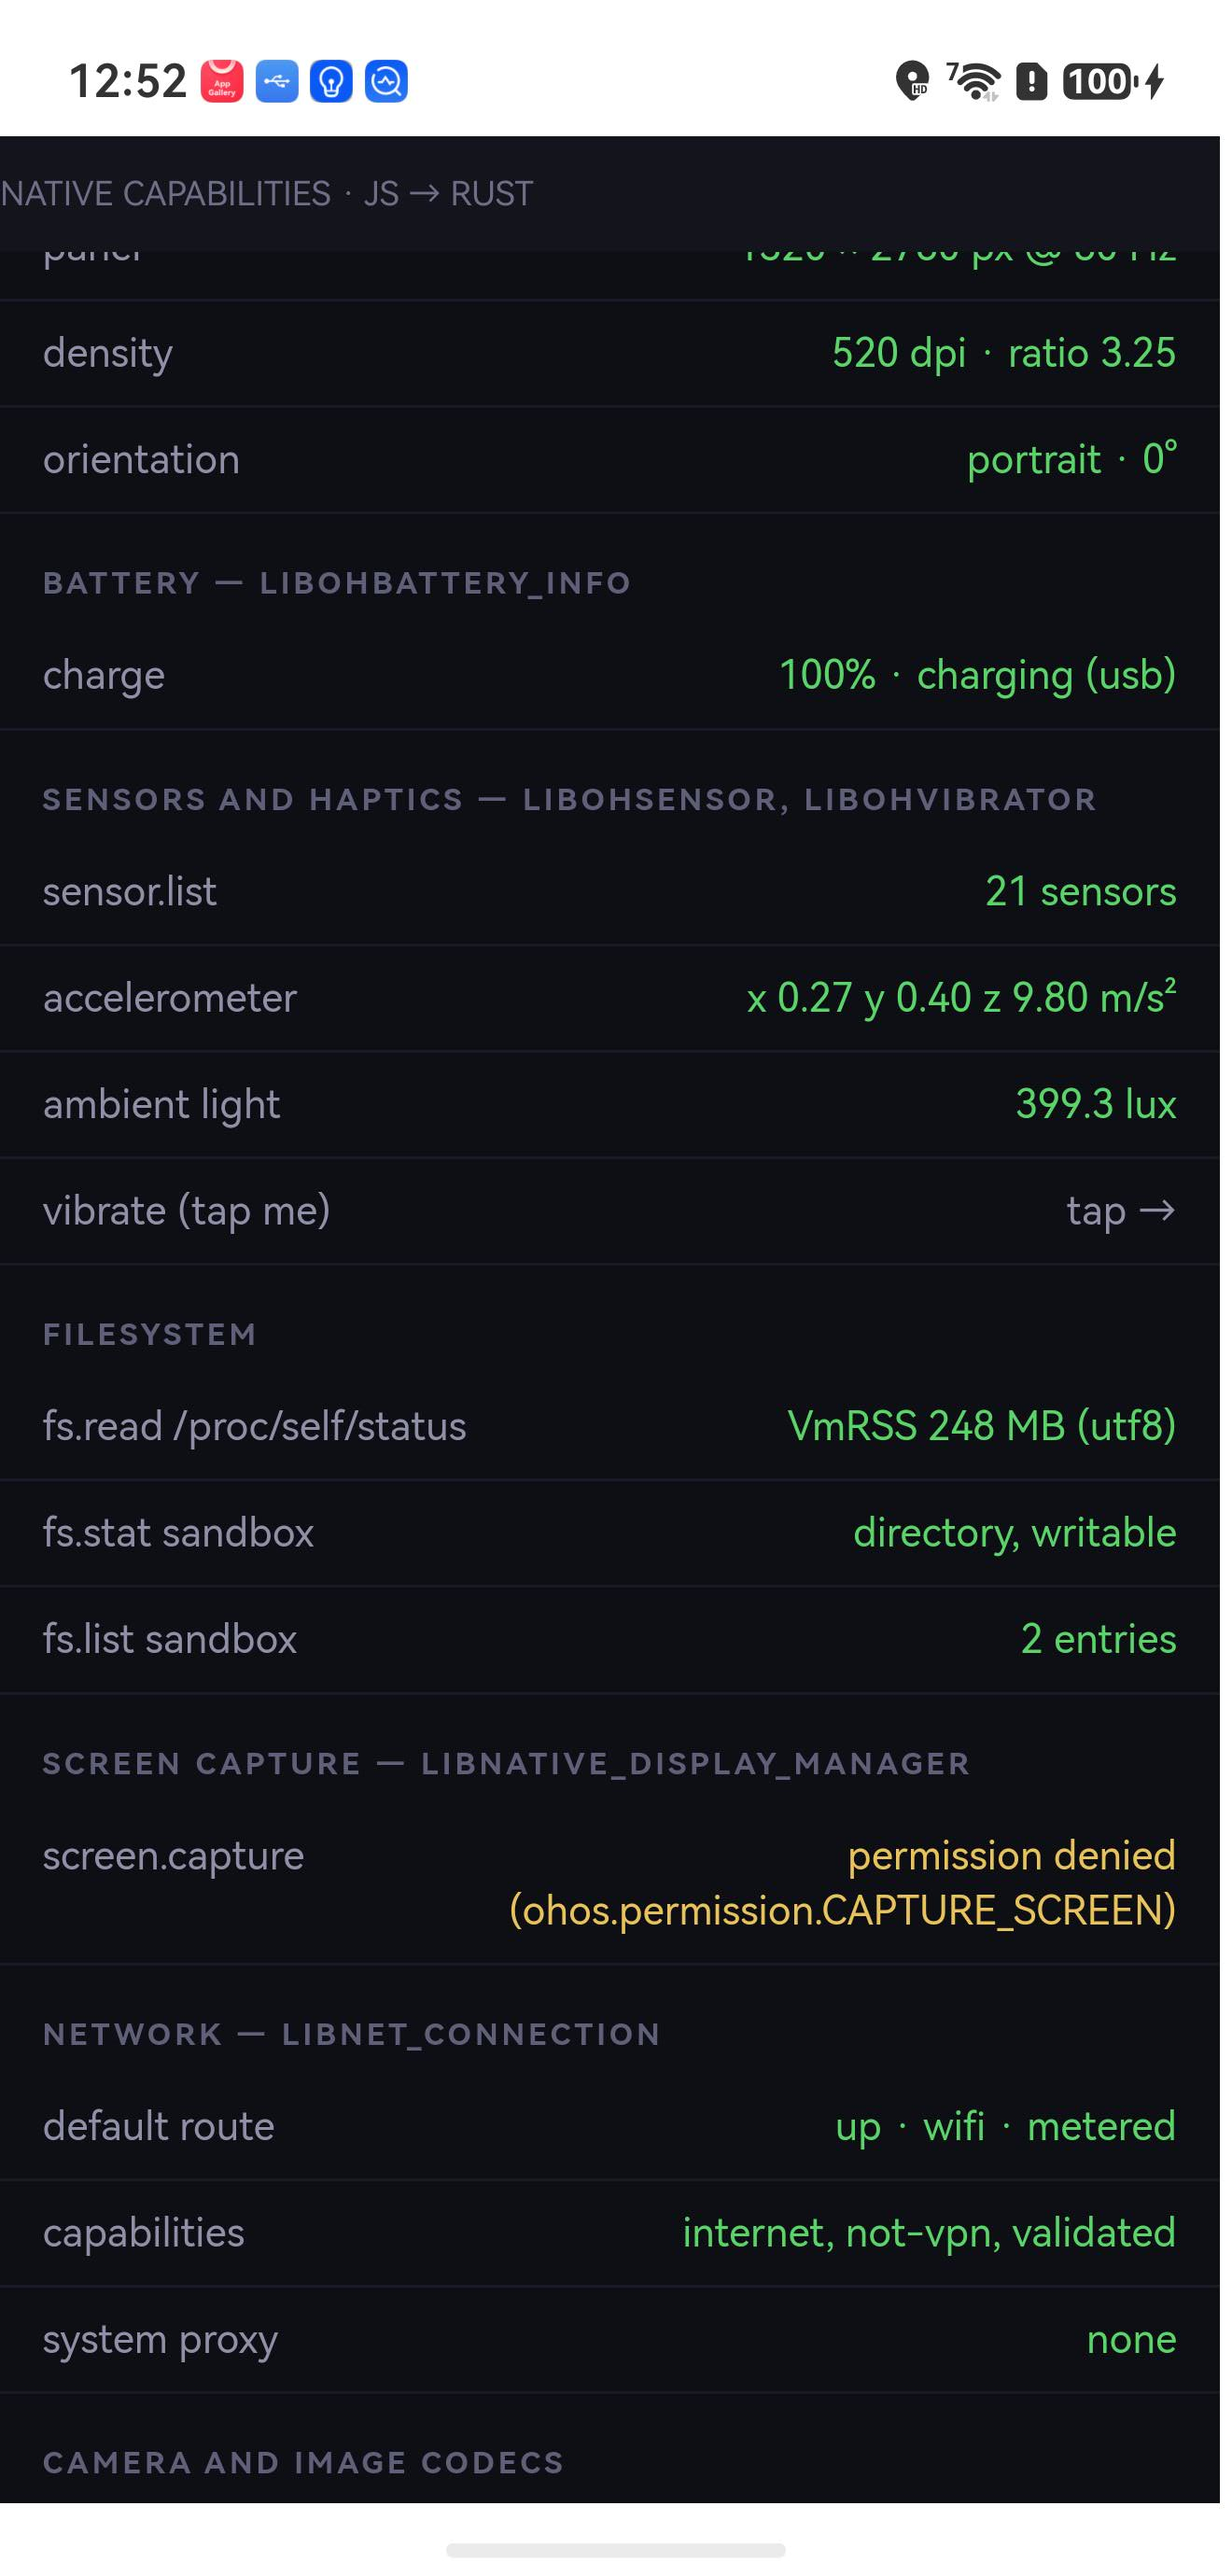
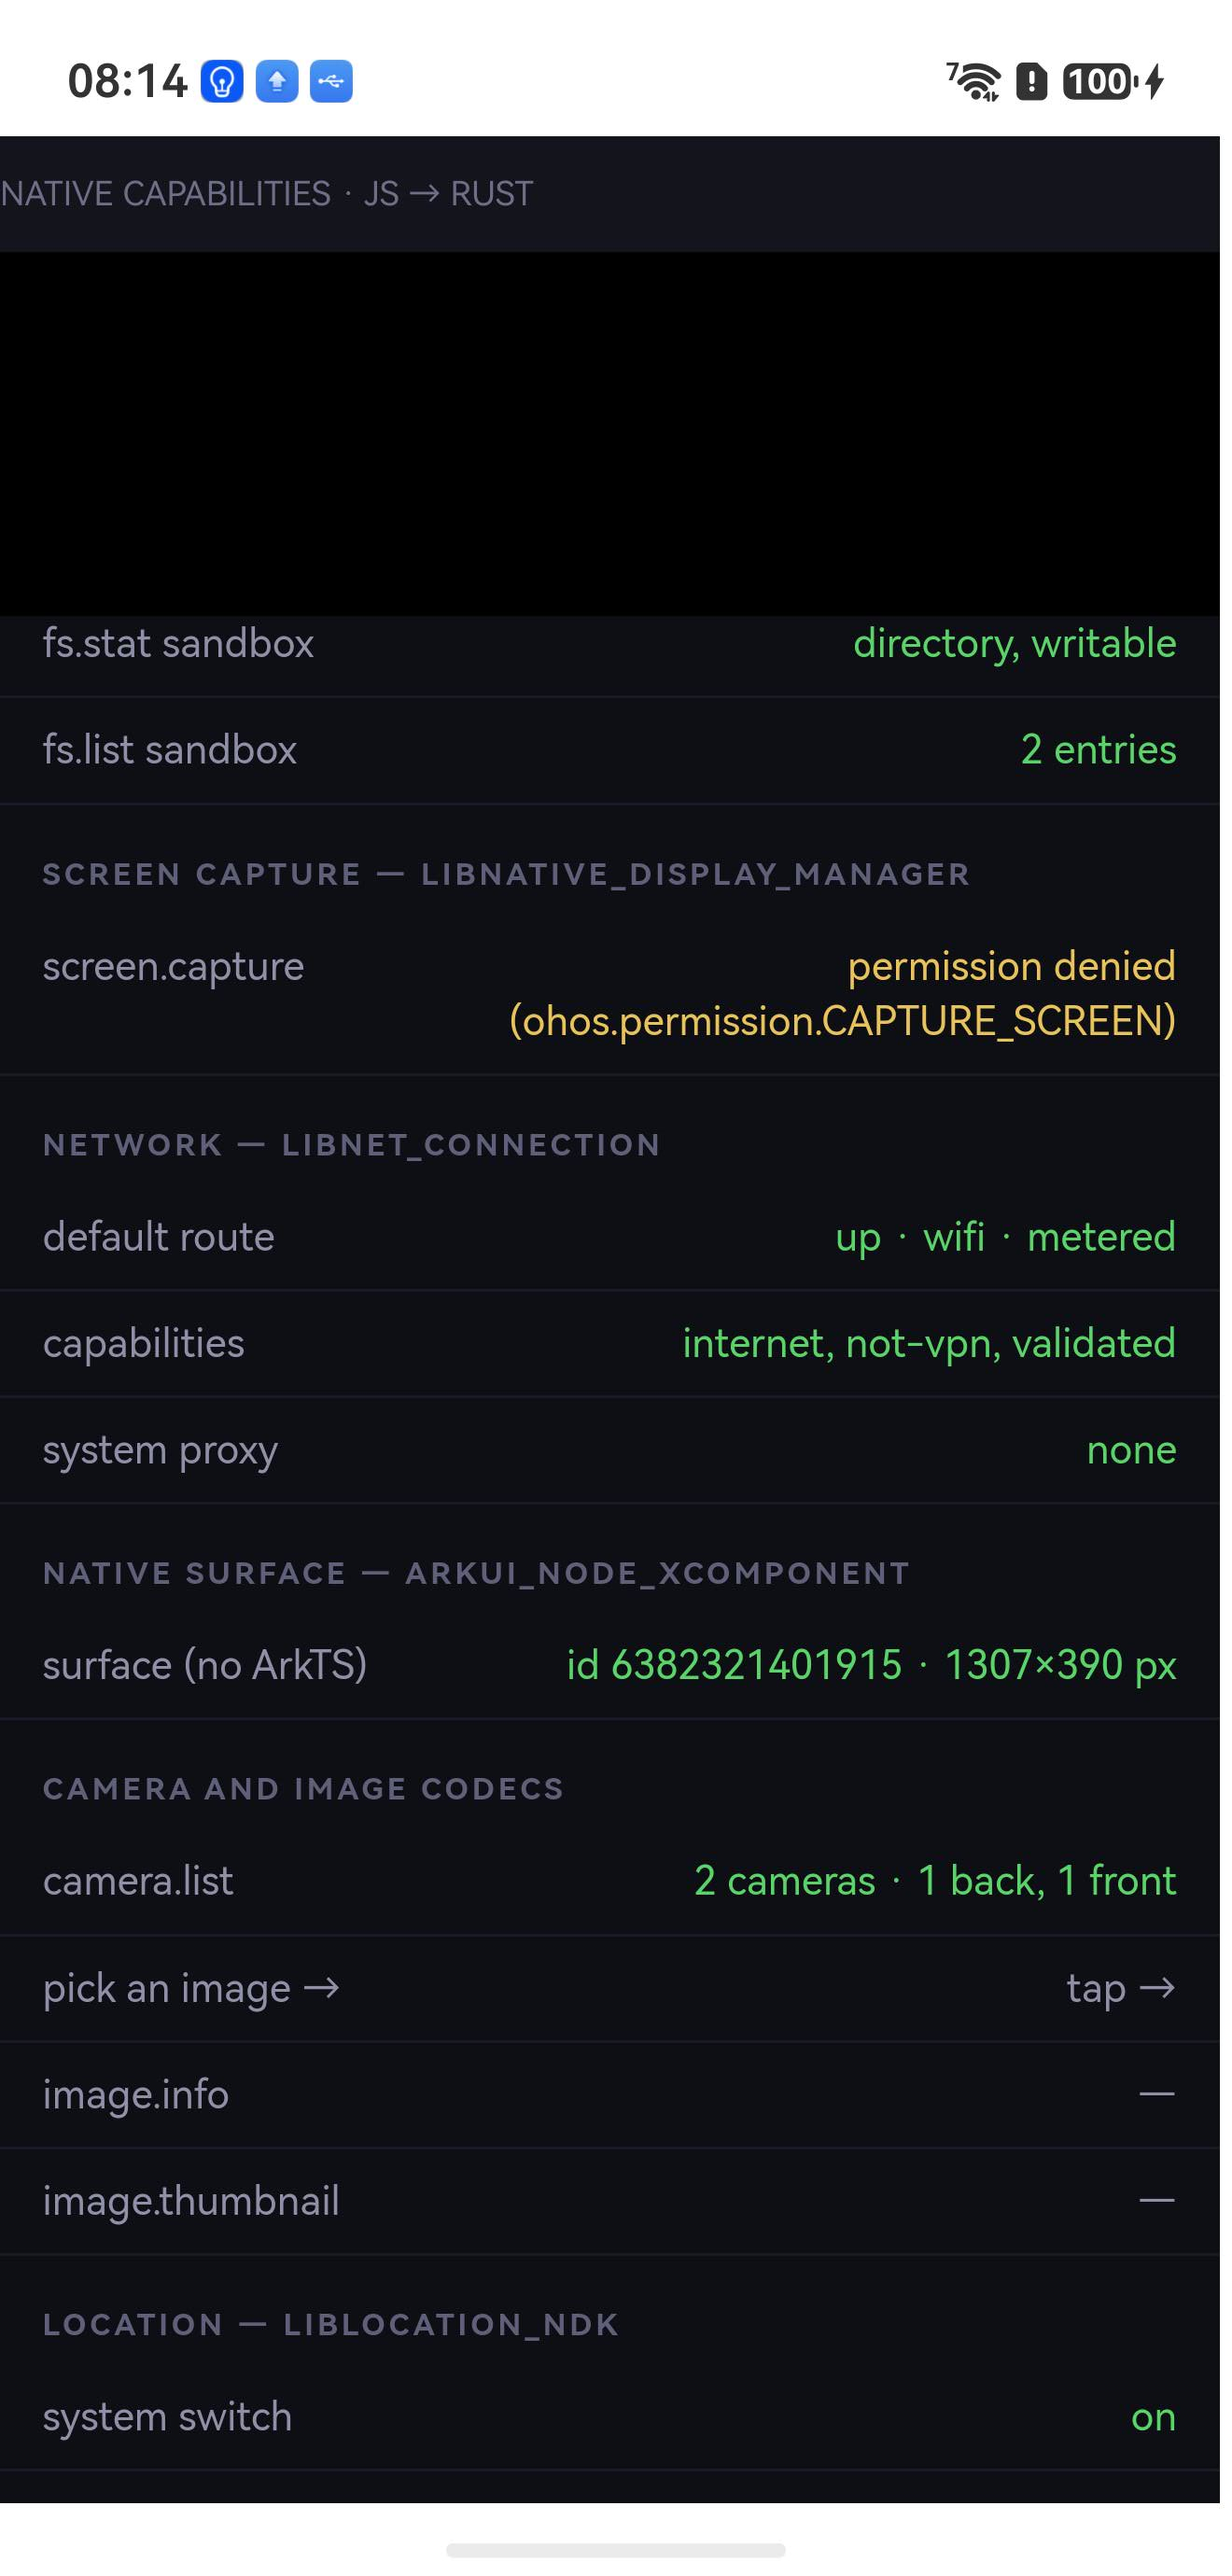
A render surface with no ArkTS on the path at all (#27)
I had suggested an ArkTS XComponent for camera preview. That was the wrong
advice and this is the correction.

  surface (no ArkTS)   id 6382321401915 · 1307×390 px

Created by Rust, from Rust, with ArkTS nowhere in it. 1307×390 px is exactly
402×120 vp at the 3.25 pixel ratio the display row reports, so it is laid out
correctly as well as merely existing.

# Why the web slots need ArkTS and this does not

They are not the same situation, and the difference is one line in the NDK.

There is no ARKUI_NODE_WEB. All 48 node types were checked; the NDK exposes no
web component, so Rust cannot build one and a real Web has to be positioned over
the native tree by ArkTS -- which is why every rebuild crosses back into ArkTS
to re-sync slot geometry.

ARKUI_NODE_XCOMPONENT is a first-class node type. So the whole chain is native:

  Node::new(ARKUI_NODE_XCOMPONENT)
  OH_NativeXComponent_GetNativeXComponent(node)
  OH_NativeXComponent_RegisterCallback(...)  -> OnSurfaceCreated(window)
  OH_NativeWindow_GetSurfaceId(window, &id)

and a producer writes frames into that surface directly. ArkTS is not on the
frame path, and here it is not on the setup path either. That surfaceId is
precisely what OH_CameraManager_CreatePreviewOutput asks for, so camera preview
needs no ArkTS -- which is the whole question that prompted this.

Worth being clear that the ArkTS cost is real where it applies: measured
earlier in this repo, ArkTS→typeNode construction runs 2.3–3.1× slower than
[…]

diff --git a/crates/splash-oh/src/xcomp.rs b/crates/splash-oh/src/xcomp.rs
@@ -1,0 +1,181 @@
+//! A native render surface, created by Rust with no ArkTS anywhere.
+//!
+//! This is the answer to "wouldn't ArkTS add overhead" for anything that needs
+//! a surface — a camera preview, a video frame, a GL scene.
+//!
+//! The web slots are stuck with an ArkTS overlay because **there is no
+//! `ARKUI_NODE_WEB`**: the NDK exposes no web component at all, so Rust cannot
+//! create one and a real `Web` has to be positioned on top of the native tree
+//! by ArkTS. Every rebuild therefore crosses into ArkTS to re-sync geometry.
+//!
+//! `XComponent` is not like that. `ARKUI_NODE_XCOMPONENT` is a first-class node
+//! type, so the whole chain stays native:
+//!
+//! ```text
+//! Node::new(ARKUI_NODE_XCOMPONENT)            this file
+//! OH_NativeXComponent_GetNativeXComponent()   node handle -> component
+//! OH_NativeXComponent_RegisterCallback()      -> OnSurfaceCreated(window)
+//! OH_NativeWindow_GetSurfaceId(window, &id)   the id a producer wants
+//! ```
+//!
+//! and a frame producer writes into that surface directly. ArkTS is not on the
+//! frame path, and here it is not on the setup path either.
+
+use crate::arkui::Node;
+use std::ffi::c_void;
+use std::os::raw::c_char;
+use std::sync::Mutex;
+
+pub const ARKUI_NODE_XCOMPONENT: i32 = 12;
+/// `NODE_XCOMPONENT_TYPE`, from `MAX_NODE_SCOPE_NUM * ARKUI_NODE_XCOMPONENT + 1`.
+const NODE_XCOMPONENT_ID: i32 = 1000 * ARKUI_NODE_XCOMPONENT;
+const NODE_XCOMPONENT_TYPE: i32 = NODE_XCOMPONENT_ID + 1;
+/// `ARKUI_XCOMPONENT_TYPE_SURFACE` — a real producer surface rather than a
+/// texture, which is what a camera or codec wants to write into.
+const XCOMPONENT_TYPE_SURFACE: i32 = 0;
+
+#[repr(C)]
+struct XComponentCallback {
+    on_surface_created: extern "C" fn(*mut c_void, *mut c_void),
+    on_surface_changed: extern "C" fn(*mut c_void, *mut c_void),
+    on_surface_destroyed: extern "C" fn(*mut c_void, *mut c_void),
+    dispatch_touch_event: extern "C" fn(*mut c_void, *mut c_void),
+}
+
+extern "C" {
+    /// In libace_ndk.z, already a hard dependency — the ArkUI tree itself needs
+    /// it, so unlike the image kits there is nothing optional about this one.
+    fn OH_NativeXComponent_GetNativeXComponent(node: *mut c_void) -> *mut c_void;
+    fn OH_NativeXComponent_RegisterCallback(
+        component: *mut c_void,
+        callback: *mut XComponentCallback,
+    ) -> i32;
+    fn OH_NativeXComponent_GetXComponentSize(
+        component: *mut c_void,
+        window: *const c_void,
+        w: *mut u64,
+        h: *mut u64,
+    ) -> i32;
+}
+
+/// `OH_NativeWindow_GetSurfaceId` lives in libnative_window, which is resolved
+/// at runtime for the reason the image kits are: a `DT_NEEDED` the loader
+/// cannot satisfy kills the whole library, and one optional capability has no
+/// business being able to do that.
+type GetSurfaceId = unsafe extern "C" fn(*mut c_void, *mut u64) -> i32;
+static SURFACE_ID_FN: std::sync::OnceLock<Option<GetSurfaceId>> = std::sync::OnceLock::new();
+
+extern "C" {
+    fn dlopen(file: *const c_char, mode: i32) -> *mut c_void;
+    fn dlsym(handle: *mut c_void, name: *const c_char) -> *mut c_void;
+}
+
+fn get_surface_id_fn() -> Option<GetSurfaceId> {
+    *SURFACE_ID_FN.get_or_init(|| {
+        let lib = std::ffi::CString::new("libnative_window.so").ok()?;
+        let h = unsafe { dlopen(lib.as_ptr(), 2) };
+        if h.is_null() {
+            crate::log("xcomp: libnative_window.so did not load");
+            return None;
+        }
+        let name = std::ffi::CString::new("OH_NativeWindow_GetSurfaceId").ok()?;
+        let p = unsafe { dlsym(h, name.as_ptr()) };
+        if p.is_null() {
+            crate::log("xcomp: OH_NativeWindow_GetSurfaceId not exported");
+            return None;
+        }
+        Some(unsafe { std::mem::transmute::<*mut c_void, GetSurfaceId>(p) })
+    })
+}
+
+/// What the surface callbacks have reported. A page reads this to find out
+/// whether a native surface actually materialised, and what its id is.
+#[derive(Default, Clone)]
+pub struct SurfaceState {
+    pub created: bool,
+    pub destroyed: bool,
+    pub surface_id: u64,
+    pub width: u64,
+    pub height: u64,
+}
+
+static STATE: Mutex<Option<SurfaceState>> = Mutex::new(None);
+
+fn update(f: impl FnOnce(&mut SurfaceState)) {
+    if let Ok(mut s) = STATE.lock() {
+        let st = s.get_or_insert_with(SurfaceState::default);
+        f(st);
+    }
+}
+
+extern "C" fn on_created(component: *mut c_void, window: *mut c_void) {
+    let mut id: u64 = 0;
+    if let Some(get) = get_surface_id_fn() {
+        unsafe { get(window, &mut id) };
+    }
+    let (mut w, mut h) = (0u64, 0u64);
+    if !component.is_null() {
+        unsafe { OH_NativeXComponent_GetXComponentSize(component, window, &mut w, &mut h) };
+    }
+    crate::log(&format!("xcomp: surface created, id {id}, {w}x{h} px"));
+    update(|s| {
+        s.created = true;
+        s.destroyed = false;
+        s.surface_id = id;
+        s.width = w;
+        s.height = h;
+    });
+}
+
+extern "C" fn on_changed(_component: *mut c_void, _window: *mut c_void) {}
+
+extern "C" fn on_destroyed(_component: *mut c_void, _window: *mut c_void) {
+    crate::log("xcomp: surface destroyed");
+    update(|s| {
+        s.created = false;
+        s.destroyed = true;
+    });
+}
+
+extern "C" fn on_touch(_component: *mut c_void, _window: *mut c_void) {}
+
+/// The callback table must outlive the component, so it is static rather than a
+/// local — registering a stack address here would hand ArkUI a dangling pointer
+/// the moment this function returned.
+static mut CALLBACKS: XComponentCallback = XComponentCallback {
+    on_surface_created: on_created,
+    on_surface_changed: on_changed,
+    on_surface_destroyed: on_destroyed,
+    dispatch_touch_event: on_touch,
+};
+
+/// Build a surface node of the given size. `None` if the node type is not
+/// available on this build.
+pub fn surface(w: f32, h: f32) -> Option<Node> {
+    let node = Node::new(ARKUI_NODE_XCOMPONENT)?
+        .i32_attr(NODE_XCOMPONENT_TYPE, XCOMPONENT_TYPE_SURFACE)
+        .width(w)
+        .height(h);
+
+    let component = unsafe { OH_NativeXComponent_GetNativeXComponent(node.raw()) };
+    if component.is_null() {
+        crate::log("xcomp: node created but no OH_NativeXComponent behind it");
+        return Some(node);
+    }
+    let rc = unsafe { OH_NativeXComponent_RegisterCallback(component, &raw mut CALLBACKS) };
+    crate::log(&format!("xcomp: registered surface callbacks ({rc})"));
+    Some(node)
+}
+
+/// What the surface reported, as JSON.
+pub fn state() -> String {
+    let s = STATE
+        .lock()
+        .ok()
+        .and_then(|s| s.clone())
+        .unwrap_or_default();
+    format!(
+        "{{\"created\":{},\"destroyed\":{},\"surfaceId\":\"{}\",\"width\":{},\"height\":{}}}",
+        s.created, s.destroyed, s.surface_id, s.width, s.height
+    )
+}

diff --git a/crates/splash-oh/src/apps/native.rs b/crates/splash-oh/src/apps/native.rs
@@ -35,8 +35,17 @@ pub fn build() -> Option<Node> {
     )?);
     root = root.child(bar);
 
-    let body_h = PAGE_H - BAR_H;
-    root = root.child(web_html(page(W, body_h), 0.0, BAR_H, W, body_h)?);
+    // A native render surface, created by Rust with no ArkTS involved, so the
+    // page below can report whether one actually materialised. It sits above
+    // the web slot: an XComponent is a real ArkUI node in the same tree, unlike
+    // a Web, which has no native node type and must be overlaid by ArkTS.
+    let surf_h = 120.0;
+    if let Some(s) = crate::xcomp::surface(W, surf_h) {
+        root = root.child(s);
+    }
+
+    let body_h = PAGE_H - BAR_H - surf_h;
+    root = root.child(web_html(page(W, body_h), 0.0, BAR_H + surf_h, W, body_h)?);
     Some(root)
 }
 
@@ -94,6 +103,9 @@ h2{{font-size:10px;letter-spacing:1.2px;text-transform:uppercase;color:#5f5f7a;
 <div class=r><span class=k>capabilities</span><span class="v m" id=w_caps>&#8230;</span></div>
 <div class=r><span class=k>system proxy</span><span class="v m" id=w_proxy>&#8230;</span></div>
 
+<h2>Native surface &mdash; ARKUI_NODE_XCOMPONENT</h2>
+<div class=r><span class=k>surface (no ArkTS)</span><span class="v m" id=x_surf>&#8230;</span></div>
+
 <h2>Camera and image codecs</h2>
 <div class=r><span class=k>camera.list</span><span class="v m" id=i_cams>&#8230;</span></div>
 <div class=r><span class=k>pick an image &#8594;</span><span class="v m" id=i_pick>tap &#8594;</span></div>
@@ -146,7 +158,7 @@ devicePixelRatio.</div>
     ['d_phone','d_model','d_os','d_api','d_patch','d_tz','d_notif',
      'p_size','p_dens','p_rot',
      'b_cap','s_list','s_acc','s_light','s_vib',
-     'f_rss','f_stat','f_list','c_cap','w_net','w_caps','w_proxy','i_cams','i_pick','i_info','i_thumb','l_on','l_fix','l_city','r_cell','r_wifi','x_abc','x_file','cb_w','cb_r','k_rt','k_runs',
+     'f_rss','f_stat','f_list','c_cap','w_net','w_caps','w_proxy','x_surf','i_cams','i_pick','i_info','i_thumb','l_on','l_fix','l_city','r_cell','r_wifi','x_abc','x_file','cb_w','cb_r','k_rt','k_runs',
      'n_get','n_vm','n_echo','g_ssrf','g_unk']
       .forEach(function (id) {{ set(id, 'f', 'no bridge'); }});
     return;
@@ -244,6 +256,15 @@ devicePixelRatio.</div>
         n.capabilities.join(', ') || 'none');
     set('w_proxy', n.proxy ? 'w' : 'p',
         n.proxy ? n.proxy.host + ':' + n.proxy.port : 'none');
+  }});
+
+  // The point of this row: a Web needs an ArkTS overlay because there is no
+  // ARKUI_NODE_WEB, but a render surface does not -- XComponent is a real node
+  // type, so Rust builds it and the producer writes frames straight in.
+  call('surface.state', undefined, ['x_surf'], function (s) {{
+    set('x_surf', s.created ? 'p' : 'w',
+        s.created ? 'id ' + s.surfaceId + ' · ' + s.width + '×' + s.height + ' px'
+                  : (s.destroyed ? 'destroyed' : 'no surface yet'));
   }});
 
   call('camera.list', undefined, ['i_cams'], function (cs) {{

diff --git a/crates/splash-oh/src/bridge.rs b/crates/splash-oh/src/bridge.rs
@@ -281,6 +281,12 @@ pub fn invoke(slot: u32, call_id: String, tool: String, args: String) {
             });
         }
 
+        // Whether a Rust-created XComponent produced a real surface. The
+        // question behind it is whether a camera preview needs ArkTS at all --
+        // it does not, because ARKUI_NODE_XCOMPONENT exists where
+        // ARKUI_NODE_WEB does not.
+        "surface.state" => reply(slot, call_id, ok(crate::xcomp::state())),
+
         // What cameras exist. Enumeration only -- capture is a session pipeline
         // needing ohos.permission.CAMERA, and knowing what the hardware is is
         // worth having before anything asks to use it.

diff --git a/crates/splash-oh/src/lib.rs b/crates/splash-oh/src/lib.rs
@@ -29,6 +29,7 @@ pub mod radio;
 pub mod sensor;
 pub mod webslot;
 pub mod wechat;
+pub mod xcomp;
 
 use arkui::NodeContentHandle;
 use napi_derive_ohos::napi;
